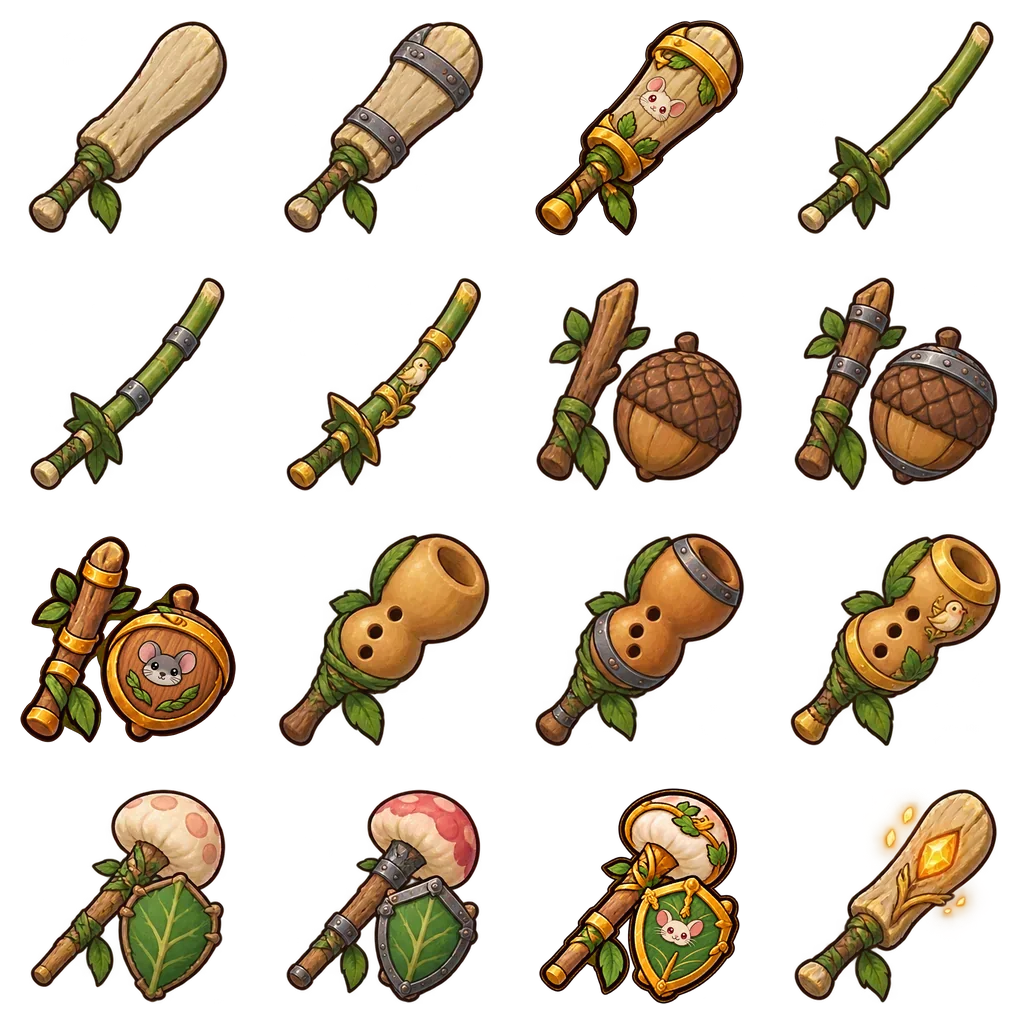
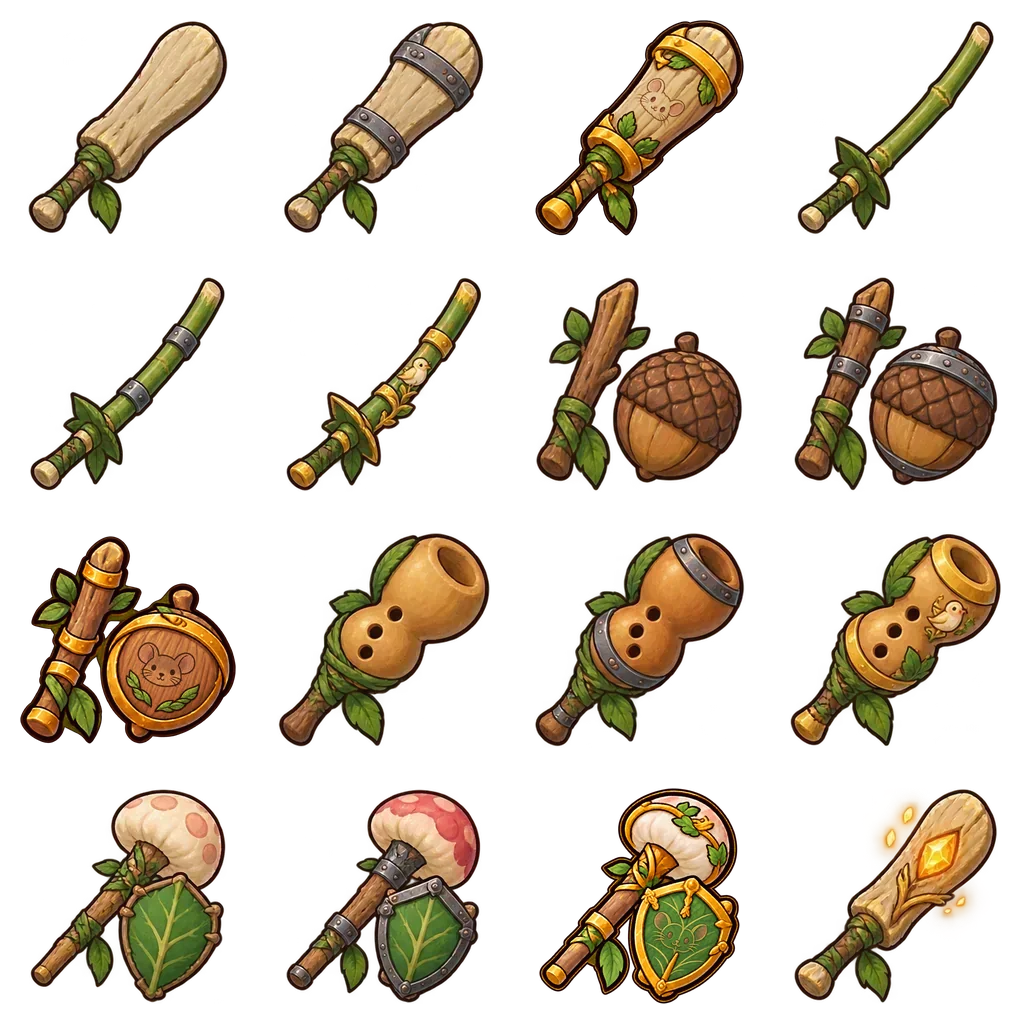
Engrave chinchilla motifs into equipment

diff --git a/docs/grumble-hunt-weapon-icons.md b/docs/grumble-hunt-weapon-icons.md
@@ -12,7 +12,7 @@ Paths are relative to the repository root. Sizes are final encoded bytes.
 
 | File | Decoded size | Bytes | Occupied cells | Generated source size |
 | --- | --- | ---: | ---: | --- |
-| `public/art/hunt/icons-weapons-3.webp` | 1024 × 1024 | 241,594 | 16 | 1254 × 1254 |
+| `public/art/hunt/icons-weapons-3.webp` | 1024 × 1024 | 241,662 | 16 | 1254 × 1254 |
 | `public/art/hunt/icons-weapons-4.webp` | 1024 × 1024 | 248,252 | 16 | 1254 × 1254 |
 | `public/art/hunt/icons-weapons-5.webp` | 1024 × 1024 | 124,248 | 8 | 1254 × 1254 |
 
@@ -230,4 +230,33 @@ Final clearance refinement:
 
 ```text
 Use case: precise-object-edit. Edit ONLY the small Dora face emblem on the green shield in this mushroom-lance icon. Keep its current smaller size, flat painted texture, colours, rotated orientation and perspective. Move the ENTIRE face/ears/whiskers upward slightly, about2 percent of canvas height, into the clear green patch below the upper gold ornament. Ensure the chin and lowest whiskers leave a clearly visible GREEN GAP above the raised gold central rib/stem that rises from the shield's bottom point. The face must overlap NONE of that gold rib, outer gold frame, top gold hanging ornament or surrounding decorative parts; shorten whiskers if needed. Restore the green leaf/vein surface exposed by moving the emblem. Keep the whole weapon and shield, all goldwork, leaves, silhouette, scale, placement, lighting, transparent background and framing unchanged. No new objects, text, logos, shadows or checkerboard.
+```
+
+## Material-integrated engraving · 24-10-2026
+
+Replaced the opaque painted face fills and glossy eye highlights with subdued material-bound marks. Dora on the paddle uses a pale wood-stain/engraved treatment, Enzo on the round shield uses thin woodburn linework and a faint smoky stain, and Dora on the leaf shield uses ochre/olive scored-vein linework. Wood grain or leaf texture runs continuously through the faces. There are no raised cheeks, sticker edges, white eye glints or head-shaped opaque colour blocks. Existing small size, surface orientation and decorative clearance are retained.
+
+Edited the three selected icons with built-in imagegen, using the preceding selected PNG for each as the edit target. Repacked only those cells; copied the other thirteen cells unchanged before WebP encoding. Exported quality 85 with alpha quality 100. Verified 1024 × 1024 RGBA, fully transparent/opaque and intermediate alpha, all sixteen occupied cells and clear cell borders. Inspected enlarged material texture and the final atlas at icon size.
+
+Exact edit prompts:
+
+### paddle engraving
+
+```text
+Use case: precise-object-edit. Edit ONLY the existing SMALL chinchilla face mark on this Grumble Hunt weapon icon. Keep its current reduced size, exact location, surface-aligned rotation and foreshortening, and its clear gaps from all leaves, goldwork and ornament. REDESIGN THE FACE AS A SUBTLE ENGRAVING IN THE EQUIPMENT'S OWN MATERIAL, not a coloured sticker, badge, plush head or opaque painted portrait. Remove the opaque head-shaped face fill, heavy dark perimeter, three-dimensional cheeks, face lighting, rim, shadow, bevel and ALL glossy white eye highlights. Use sparse thin incised/woodburn-style lines for the round dish ears, cheeks, tiny nose, w smile and short whiskers. Eyes are small simple etched ovals with no glossy shine. Existing material grain/veins and surface lighting must pass CONTINUOUSLY through the entire face including cheeks and ears. Keep the face LOW-CONTRAST, quieter than nearby leaves and goldwork, with no head-shaped silhouette floating above the material. Every line lies flat and follows the object's surface. Preserve EVERY other aspect: exact weapon and shield silhouette, material, proportions, framing, position, light, gold trim, leaf decorations, colours and transparent background. No text, logo, watermark, frame, background or checkerboard. Output one complete square icon.
+DORA on the pale driftwood paddle. Use natural PALE WOOD as her face fill, completely uninterrupted wood grain. Thin, softly worn warm-tan engraved lines, no dark head perimeter. Only faint dusty-rose stain inside the ear linework and tiny muted reddish-brown eye/nose details hint at cream-white Dora's pink ears and ruby eyes. No solid cream or white paint; keep the paddle's own wood tone visible everywhere.
+```
+
+### acorn-shield engraving
+
+```text
+Use case: precise-object-edit. Edit ONLY the existing SMALL chinchilla face mark on this Grumble Hunt weapon icon. Keep its current reduced size, exact location, surface-aligned rotation and foreshortening, and its clear gaps from all leaves, goldwork and ornament. REDESIGN THE FACE AS A SUBTLE ENGRAVING IN THE EQUIPMENT'S OWN MATERIAL, not a coloured sticker, badge, plush head or opaque painted portrait. Remove the opaque head-shaped face fill, heavy dark perimeter, three-dimensional cheeks, face lighting, rim, shadow, bevel and ALL glossy white eye highlights. Use sparse thin incised/woodburn-style lines for the round dish ears, cheeks, tiny nose, w smile and short whiskers. Eyes are small simple etched ovals with no glossy shine. Existing material grain/veins and surface lighting must pass CONTINUOUSLY through the entire face including cheeks and ears. Keep the face LOW-CONTRAST, quieter than nearby leaves and goldwork, with no head-shaped silhouette floating above the material. Every line lies flat and follows the object's surface. Preserve EVERY other aspect: exact weapon and shield silhouette, material, proportions, framing, position, light, gold trim, leaf decorations, colours and transparent background. No text, logo, watermark, frame, background or checkerboard. Output one complete square icon.
+ENZO on the round acorn shield. Use the shield's own WARM WOOD as the face, with continuous wood grain. Fine smoky-grey/brown woodburn engraving suggests Enzo's grey fur; only a very faint translucent smoke-grey stain inside parts of the linework, never an opaque grey head shape. Tiny muted mauve-brown ear stain, small charcoal etched eyes/nose with NO highlights. Simplify the facial detail rather than making it bold. Let the leaves and gold rim remain visually stronger.
+```
+
+### leaf-shield engraving
+
+```text
+Use case: precise-object-edit. Edit ONLY the existing SMALL chinchilla face mark on this Grumble Hunt weapon icon. Keep its current reduced size, exact location, surface-aligned rotation and foreshortening, and its clear gaps from all leaves, goldwork and ornament. REDESIGN THE FACE AS A SUBTLE ENGRAVING IN THE EQUIPMENT'S OWN MATERIAL, not a coloured sticker, badge, plush head or opaque painted portrait. Remove the opaque head-shaped face fill, heavy dark perimeter, three-dimensional cheeks, face lighting, rim, shadow, bevel and ALL glossy white eye highlights. Use sparse thin incised/woodburn-style lines for the round dish ears, cheeks, tiny nose, w smile and short whiskers. Eyes are small simple etched ovals with no glossy shine. Existing material grain/veins and surface lighting must pass CONTINUOUSLY through the entire face including cheeks and ears. Keep the face LOW-CONTRAST, quieter than nearby leaves and goldwork, with no head-shaped silhouette floating above the material. Every line lies flat and follows the object's surface. Preserve EVERY other aspect: exact weapon and shield silhouette, material, proportions, framing, position, light, gold trim, leaf decorations, colours and transparent background. No text, logo, watermark, frame, background or checkerboard. Output one complete square icon.
+DORA on the green leaf shield. Use the shield's own GREEN LEAF as the face fill; leaf veins must remain fully visible and CONTINUOUS through the face. Incise her round-ear chinchilla features into the leaf as thin muted ochre/olive-green lines, just a little lighter/darker than surrounding green. Only the faintest dusty rose ear and muted russet eye hints; no cream/white face fill and no dark head outline. Make it feel like naturally scored leaf-vein decoration, integrated into the leaf itself.
 ```
